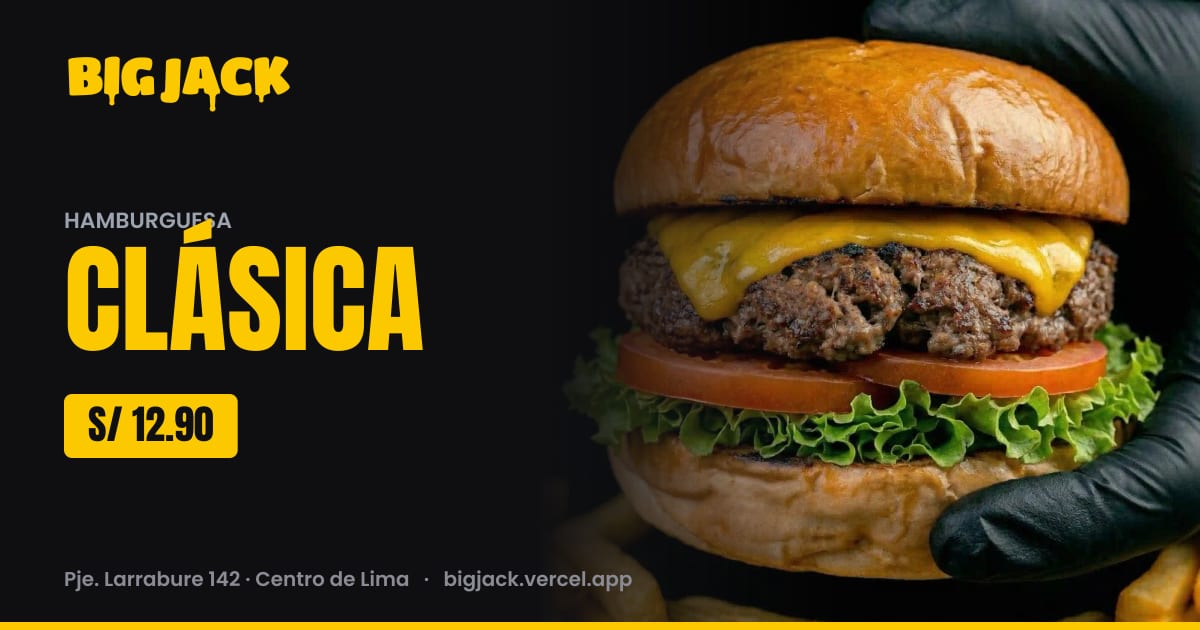
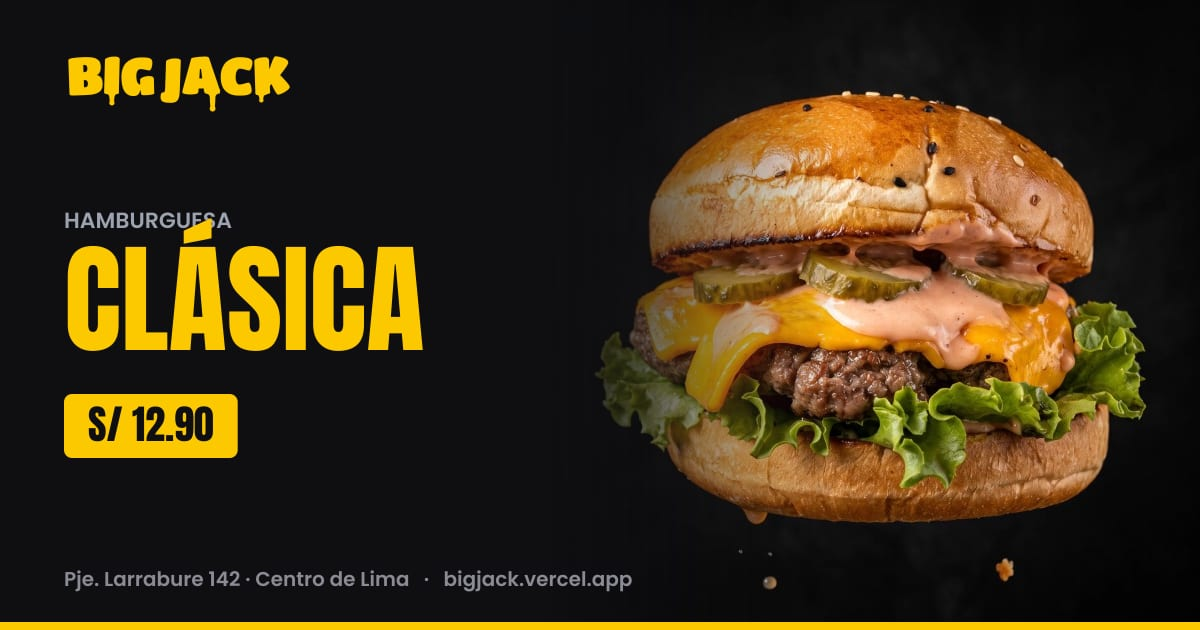
refactor: update photography guide and asset library with hard flash style and new brand images

diff --git a/docs/marca/GUIA_FOTOGRAFIA_Y_VIDEO.md b/docs/marca/GUIA_FOTOGRAFIA_Y_VIDEO.md
@@ -1,132 +1,119 @@
 # Guía de Fotografía y Video — BIG JACK
 
-**Versión:** 1.0 · **Fecha:** 2026-10-24 · Parte del [Manual de Marca](./MANUAL_DE_MARCA.md).
-**Referencia visual:** tablero de Pinterest "BIG JACK – REF Fotografía" (32 pines).
+**Versión:** 2.0 · **Fecha:** 2026-11-01 · Parte del [Manual de Marca](./MANUAL_DE_MARCA.md).
+**Referencia visual:** Tablero de Pinterest "BIG JACK – REF Fotografía" + Nuevas referencias de estilo *Snapshot / Hard Flash* y Bodegones Aéreos.
 
-> **En una línea:** flash directo, de noche, comida que chorrea y gente que muerde sin pose. Lo rico está sucio.
+> **En una línea:** Flash duro directo a la cara del protagonista, fondo devorado por la oscuridad, ángulos sin miedo, planos macros invasivos y comida real que chorrea grasa. Lo rico está sucio.
 
 ---
 
-## 1. Lo que dice el tablero de referencia
+## 1. ADN Visual en formato Prompt (Definición del Estilo)
 
-Lo que se repite en los 32 pines, y por lo tanto es nuestro look:
+Esta descripción funciona tanto como **manifiesto estético** para el fotógrafo en locación, como **prompt base** para retoque, limpieza de fondos y generación de activos con IA.
 
-| Se repite | Qué tomamos |
+### 1.1 Prompt Maestro: Estilo Espontáneo / Calle / Cocina (Look Noche)
+> **En Español:** Fotografía gastronómica callejera de estilo instantáneo (*snapshot* / *paparazzi*), cruda y espontánea. Iluminación de flash duro y directo montado en cámara que impacta de lleno en el protagonista, creando brillos especulares intensos en la grasa de la carne, el queso derretido, las salsas y el sudor del pan tostado. Sombras negras, duras y muy marcadas justo detrás del sujeto. El fondo se oscurece casi por completo debido a la caída brusca de la luz del flash. Toma capturada con diafragma cerrado entre $f/8$ y $f/12$ para lograr una nitidez extrema y rabiosa en cada textura (poros del pan, costra *smash* de la carne, partículas de humo y gotas de grasa suspendidas en el aire sobre la plancha), con un ISO entre $400$ y $1200$ que aporta un grano orgánico y nocturno. Composición atrevida sin miedo a planos extraños: contrapicados agresivos, picados extremos con lente gran angular que distorsionan ligeramente la perspectiva, o planos macro invasivos donde ni siquiera se ve la hamburguesa completa, sino el choque viscoso de los ingredientes. Cero estilismo artificial: envolturas de aluminio arrugadas, dedos manchados, mordidas reales y actitud cruda.
+
+> **En Inglés (para motores de IA):** *Raw snapshot food photography, candid street style, harsh direct on-camera flash lighting hitting the main subject directly. Intense specular highlights on glistening beef grease, melted American cheese, creamy house sauce, and toasted brioche bun. Deep, hard-edged pitch-black shadows, dramatic light fall-off making the background very dark and moody. Shot at $f/8$ to $f/12$ for tack-sharp deep depth of field, ISO $800$ gritty film texture. Unapologetic weird angles, wide-angle lens distortion close to the subject, or extreme invasive macro close-ups of dripping sauces and seared meat crust. Unstyled, authentic, messy, airborne grease particles and smoke in the kitchen, crumpled foil wrapper, instant camera aesthetic.*
+
+### 1.2 Prompt Maestro: Bodegón Aéreo $1:1$ y Tabla (Look Producto / Carta)
+> **En Español:** Fotografía de producto gastronómico de alto impacto en formato cuadrado ($1:1$), perspectiva frontal-isométrica a la altura de los ojos de la hamburguesa. La hamburguesa flota en el aire sobre un fondo negro puro absoluto (logrado por recorte de luz), dando la sensación real de ingravidez con migas de pan tostado y gotas de grasa o salsa cayendo en el aire. Iluminación de flash duro direccional (sin luz difusa suave) que resalta el volumen tridimensional, el dorado y el tostado del corte del pan, la rugosidad jugosa de la carne *smash*, el queso amarillo bien fundido abrazando la carne y la salsa desparramándose con un toque sucio pero apetecible. Si es en tabla de madera con papas fritas, se mantiene la madera real sin adornos falsos encima (solo la papa frita pura y dorada), proyectando sombras duras y contrastadas sobre la tabla con el fondo cayendo a negro total.
+
+> **En Inglés (para motores de IA):** *High-impact commercial burger photography, $1:1$ square format, eye-level isometric frontal perspective. The burger is levitating in mid-air against a pure pitch-black background, dynamic floating toasted crumbs and falling sauce droplets frozen in motion. Lit by a harsh, direct flash—no soft diffused light—creating high contrast, sharp shadows, and mouth-watering specular highlights on the juicy seared beef patties, melted cheddar cheese, glossy house sauce, crispy bacon, and toasted sesame brioche bun. Organized yet messy and greasy ("dirty delicious" aesthetic). Ultra-detailed macro textures, shot at $f/11$, dark moody studio aesthetic.*
+
+---
+
+## 2. Lo que dicen las referencias visuales
+
+A partir del tablero base y las nuevas referencias incorporadas, estas son las reglas visuales innegociables de **BIG JACK**:
+
+| Elemento Visual | Cómo lo aplicamos en BIG JACK |
 | :--- | :--- |
-| **Flash directo** de cámara, sombra dura detrás, fondo que cae a negro | Es el look principal de la marca. |
-| **Gente mordiendo de verdad**: boca abierta, ojos cerrados, cachetes llenos, dedos manchados | La mordida es la foto, no la burger sola. |
-| **Cerca y de frente**: la burger casi pegada al lente, a veces con gran angular u ojo de pez | Producto grande, distorsión permitida. |
-| **Noche y calle**: auto con la maletera abierta, vereda, local con fluorescentes | El Centro de noche es nuestro set. |
-| **Papel**: burger envuelta, papel transparente de grasa, bandejitas | Nuestro aluminio y kraft cumplen ese rol. |
-| **Personajes con actitud**: el señor mayor que manda a rodar la cámara, la chica con lentes de sol de noche, el pata hablando por teléfono con la burger en la mano | Así se ve el universo peruano en foto: actitud, no pose. |
-| **Producto solo sobre superficie oscura** con humo o plancha | Para la carta y piezas de producto. |
-
-Lo que **no** tomamos del tablero: las fotos de estudio con fondo infinito y los locales "de diseño" (mesas verdes, cocinas de revista). Nuestro fondo es el pasaje.
+| **Flash directo sin piedad** | La luz pega de frente. El protagonista brilla y el fondo se apaga (ley inversa del cuadrado). Las sombras detrás de las personas o sobre la tabla son negras y recortadas. |
+| **Planos extraños y distorsión** | No buscamos el ángulo "correcto" de restaurante fino. Usamos picados extremos desde arriba con gran angular (el cliente mirando la burger de reojo), planos inclinados (*Dutch angle*) en las bandejas, y acercamientos agresivos. |
+| **Macros extremos e invasivos** | Fotos donde el encuadre se cierra tanto que solo vemos el borde del pan, la salsa chorreando con sus especias y la costra brillante de la carne. |
+| **La grasa y el humo como textura** | En la plancha, el flash duro rebota contra el humo y las microgotas de grasa que saltan en el aire, creando una atmósfera densa, real y callejera (con guantes negros de nitrilo siempre presentes). |
+| **Gente comiendo sin pose** | Ojos cerrados al morder mientras cae una gota de grasa de la muñeca, cabeza tirada hacia atrás comiendo una papa frita con la burger en la otra mano, o dos pares de manos mostrando las burgers mordidas envueltas en papel/aluminio. |
+| **Bodegón limpio pero "sucio"** | Cuando mostramos el producto solo (en el aire o en tabla de madera), los ingredientes se entienden a la perfección, pero mantienen la rebeldía: queso muy derretido, salsa que mancha el borde del pan y papas fritas solas, **sin perejil ni adornos encima**. |
 
 ---
 
-## 2. Los dos looks
+## 3. Los tres looks de la marca
 
-| Look | Para qué | Cómo se ve |
+| Look | Para qué sirve | Cómo se construye |
 | :--- | :--- | :--- |
-| **Noche (flash)** | Feed, reels, universo peruano, la caleta. **Es el principal.** | Flash directo, fondo oscuro, gente, calle, mordidas. |
-| **Recorte (producto)** | Plantillas de color plano del [Modo Amarillo](./IDENTIDAD_VISUAL.md), carta, web, delivery. | Burger sola, bien iluminada, fondo liso para recortar sin perder el queso que cae. |
-
-En cada sesión se sacan los dos: las fotos de recorte alimentan las plantillas durante meses.
-
----
-
-## 3. Técnica
-
-### 3.1 Flash directo (look Noche)
-
-| Ajuste | Valor de partida |
-| :--- | :--- |
-| Flash | Montado en la cámara, de frente, sin difusor o con difusor mínimo. Potencia 1/8–1/4 a 1–2 m. |
-| Velocidad | 1/125–1/200 s para congelar. **1/15–1/30 s** para arrastrar la luz de la calle (estelas y fondo con luz de poste). |
-| Diafragma | f/5.6–f/8 (todo nítido, look de compacta). |
-| ISO | 400–800 de noche, para que la calle no quede en negro total. |
-| Lente | 24–35 mm para gente y calle; macro o 50 mm para detalle; ojo de pez solo para piezas puntuales. |
-| Celular | Vale. Flash del celular encendido, modo nocturno **apagado** (suaviza demasiado). |
-| Encuadre | Vertical primero (4:5 y 9:16). Dejar aire arriba y abajo para texto. |
-
-### 3.2 Recorte (look producto)
-
-| Ajuste | Valor de partida |
-| :--- | :--- |
-| Fondo | Cartulina lisa negra y otra amarilla (o gris medio). Separar la burger 50 cm del fondo. |
-| Luz | Una luz principal dura a 45° + un rebote. Sombra marcada, no difusa. |
-| Ángulos | Frontal a la altura de la burger (el "edificio"), 3/4 desde arriba, cenital del aluminio abierto. |
-| Movimiento | El queso cayendo, la mordida recién dada, la mano entrando desde un borde (para plantilla T2). |
-| Repetir | El mismo ángulo con y sin mano, con y sin mordida. |
-
-### 3.3 Higiene en cámara
-
-Guantes en toda la preparación. Superficies limpias. La cochinada es del cliente comiendo, no del cocinero cocinando.
+| **1. Noche / Snapshot (Principal)** | Feed, Reels, TikTok, universo peruano, cocina y calle. | Espontáneo, ángulos raros, gente mordiendo, humo de plancha, manos con aluminio, fondo oscuro o calle nocturna subexpuesta. |
+| **2. Bodegón Aéreo ($1:1$)** | Carta digital, web, apps de delivery, piezas héroe de producto. | Hamburguesa flotando en el aire sobre fondo negro puro. Perspectiva frontal/isométrica impecable, migas y gotas cayendo, iluminada con flash duro para que brille la jugosidad. |
+| **3. Bodegón en Tabla / Bandeja** | Combos con papas, promociones en redes, carruseles de menú. | Perspectiva $3/4$ sobre nuestra tabla de madera o bandeja metálica. Fondo oscurecido por completo, sombra dura proyectada en la base, papas puras sin agregados falsos. |
 
 ---
 
-## 4. Edición (preset de partida)
+## 4. Técnica Fotográfica (Parámetros de Cámara)
 
-Valores para Lightroom o similar sobre foto con flash. Ajustar por foto; lo importante es que **todas se vean de la misma familia**.
+El secreto de nuestro estilo está en **subexponer el ambiente** y dejar que el **flash duro** sea quien pinte los detalles con máxima nitidez.
 
-| Parámetro | Valor |
-| :--- | :--- |
-| Contraste | +25 |
-| Altas luces | −20 |
-| Sombras | −10 |
-| Blancos | +15 |
-| Negros | −20 |
-| Textura / Claridad | +10 / +8 |
-| Vibración / Saturación | +5 / 0 |
-| HSL Amarillo | Saturación +10 |
-| HSL Naranja | Luminancia +5 (pan dorado, piel) |
-| HSL Rojo | Saturación +5 (tomate, cuernos) |
-| Temperatura | Levemente cálida (+300 K aprox.) |
-| Grano | Cantidad 20, tamaño 25, rugosidad 50 |
-| Viñeta | −10 |
+### 4.1 Configuración Base (Cámara Profesional)
 
-**No se hace:** suavizado de piel, quitar migas o grasa, agrandar la burger, cambiar el color del queso.
-
-Guardar el preset como `BIGJACK_NOCHE_v1` y compartirlo con todo el equipo.
-
----
-
-## 5. Real, IA y lo que nunca
-
-| Qué | Cómo se produce | Regla |
+| Parámetro | Rango Obligatorio | Por qué se usa así |
 | :--- | :--- | :--- |
-| **Hamburguesas, ingredientes, porciones** | **Foto real** siempre. | Nunca IA, nunca banco de imágenes. Es lo que vendemos. |
-| **Primeros planos** (mordida, manos, papel) | Foto real. | Se puede limpiar el fondo, no el producto. |
-| **Escenas del universo peruano** (personaje + situación) | Foto real de la burger y/o de un actor + **IA para la escena**, el fondo o el personaje. | La burger que aparece sigue siendo una foto real compuesta en la escena. |
-| **Fondos, cielo, calle, collage** | IA o foto. | Libre. |
-| **Personas reales identificables** (políticos, famosos) | Ilustración, caricatura, actor en parodia evidente. | **Nunca** IA fotorrealista que parezca una foto real de esa persona. Ver [UNIVERSO_PERUANO.md](./UNIVERSO_PERUANO.md). |
-| **Vecinos y gente de la zona** | Foto real con autorización firmada. | Sin autorización, fuera de foco o de espaldas. |
+| **Diafragma** | **$f/8$ a $f/12$** | Queremos profundidad de campo amplia y rabiosamente nítida. Que desde la punta del pan hasta el fondo de la bandeja (o cada poro en un plano macro) se vea cortante. Además, cerrar el diafragma ayuda a matar la luz fea del ambiente y oscurecer el fondo. |
+| **ISO** | **$400$ a $1200$** | Nos da sensibilidad para que el flash recicle rápido y aporta una textura ligeramente granulada y cruda en las zonas medias y sombras, evitando el look "plástico" de estudio tradicional. |
+| **Velocidad de Obturación** | **$1/160\text{ s}$ a $1/250\text{ s}$** (congelado)<br>**$1/15\text{ s}$ a $1/30\text{ s}$** (arrastre) | Velocidad alta de sincronización para oscurecer el fondo y congelar gotas de grasa o partículas en la plancha. Velocidad lenta solo en calle cuando queremos estelas de luces de autos o postes detrás del sujeto. |
+| **Iluminación (Flash)** | **Flash duro directo** (en zapata o en mano con cable/radio) | **Prohibido usar *softbox* grandes o difusores suaves.** Queremos el destello desnudo (o con reflector metálico estándar). La luz debe crear reflejos especulares en la humedad de la salsa y la grasa, dejando sombras definidas. |
+| **Óptica (Lentes)** | **$16\text{–}28\text{ mm}$** (Calle/Gente)<br>**$50\text{–}90\text{ mm Macro}$** (Producto/Detalle) | El gran angular pegado al sujeto exagera las proporciones (la burger o la cara en primer plano se ven gigantes y con mucha actitud). El lente macro se usa para los planos cerrados de texturas y los bodegones $1:1$. |
 
-Las plataformas pueden etiquetar como "hecho con IA" una imagen editada. No es problema; lo que no se hace es presentar como real algo que no pasó con una persona real.
+### 4.2 Cómo lograr el fondo negro sin estudio (Caída de luz)
+1. Pon la cámara en **ISO $400$**, diafragma **$f/11$** y velocidad **$1/200\text{ s}$**. Si disparas sin flash en el local o de noche, la foto debe salir casi completamente negra.
+2. Enciende el flash duro apuntando directamente a la hamburguesa o al plato (a unos $40\text{–}80\text{ cm}$ de distancia).
+3. Separa al sujeto del fondo al menos $1.5\text{ metros}$. El flash iluminará con fuerza la comida y sus detalles, pero no llegará al fondo, dejándolo negro o en penumbra profunda de manera natural.
 
-### 5.1 Placas para IA
-
-Para que una burger real se vea bien dentro de una escena hecha con IA, en cada sesión se sacan **placas**:
-
-- La burger sola sobre fondo liso, con **el mismo flash** que se usará en la escena (frontal, duro).
-- Tres ángulos: frontal, 3/4, ligeramente desde abajo.
-- **La mano sosteniendo la burger** en 3–4 posiciones (como si comiera, como si la mostrara, de lado, cerca de la boca), con manga negra y con manga de color.
-- La burger mordida y sin morder.
-- Un aluminio abierto y una bolsa kraft cerrada con el sello.
-
-Con eso se arma cualquier escena: la casera hablando por teléfono, el cobrador colgado de la combi, el político en el congreso de mentira.
+### 4.3 Higiene en cámara vs. "Suciedad" apetecible
+* **En cocina:** Guantes negros de nitrilo impecables siempre que una mano toque o aplaste en la plancha. La grasa que salta en el aire frente al flash y los jugos sobre el acero son parte del espectáculo.
+* **En el plato / manos del cliente:** Aquí vive "la cochinada" rica. Dedos manchados de salsa de la casa, queso fundido pegado al papel aluminio, migas sobre la tabla y jugos goteando.
 
 ---
 
-## 6. Seguridad y permisos en la zona
+## 5. Edición y Revelado (Preset `BIGJACK_HARDFLASH_v2`)
+
+Ajustes de partida en Lightroom / Capture One para acentuar el dramatismo del flash duro, hundir el fondo y hacer brillar la grasa sin que el pan pierda su color dorado apetecible.
+
+| Parámetro | Valor sugerido | Objetivo visual |
+| :--- | :--- | :--- |
+| **Exposición** | $-0.30$ a $0.00$ | Mantener la atmósfera oscura; solo brilla lo que toca el flash. |
+| **Contraste** | $+30$ | Separación agresiva entre el golpe de luz y la sombra. |
+| **Altas luces (Highlights)** | $-15$ | Controlar el quemado en el centro del pan sin matar el brillo especular de la grasa. |
+| **Sombras (Shadows)** | $-25$ | Hundir el fondo y dar peso a las sombras proyectadas. |
+| **Blancos (Whites)** | $+20$ | Hacer que los puntos de luz en la salsa, dientes, ojos y grasa estallen. |
+| **Negros (Blacks)** | $-30$ | Asegurar negros profundos y sólidos en el fondo. |
+| **Textura / Claridad** | $+15$ / $+10$ | Resaltar la costra de la carne, las semillas del pan y las gotas de humedad. |
+| **Borrar neblina (Dehaze)** | $+5$ (o $-5$ en fotos de humo) | $+5$ para recortes limpios; $-5$ en plancha si queremos que el humo brille más con el flash. |
+| **HSL — Amarillo / Naranja** | Sat $+10$ / Lum $+5$ | Queso cheddar vibrante y pan dorado tostado. |
+| **HSL — Rojo** | Sat $+8$ / Lum $-5$ | Carnes jugosas, tocino intenso y salsas con cuerpo. |
+| **Temperatura** | $+300\text{ K}$ a $+500\text{ K}$ | Contrarrestar el tono azulado del flash puro para que la comida se vea cálida y calórica. |
+| **Grano** | Cantidad $20$, Tamaño $30$, Rugosidad $60$ | Textura de película forzada a ISO $800\text{–}1200$. |
+
+---
+
+## 6. Real, IA y Flujo de Postproducción
+
+| Qué | Cómo se produce | Regla de Oro |
+| :--- | :--- | :--- |
+| **Base del producto (Hamburguesas y Papas)** | **Foto real siempre.** | Jamás se inventa una hamburguesa desde cero sin base real. |
+| **Bodegón Aéreo $1:1$ y Limpieza de Tabla** | **Foto real + Retoque / IA generativa controlada.** | Tomamos nuestra foto real (en mano o en tabla) y usamos IA/Edición para: eliminar la mano con guante, suspender la burger en el aire sobre negro puro, corregir asimetrías leves del pan, acentuar el tostado del corte, derretir un punto más el queso y unificar la luz a estilo *flash duro*. |
+| **Fidelidad de ingredientes** | **Estricta.** | Si es la Clásica, lleva carne, queso amarillo, salsa de la casa, lechuga recogida y pepinillos en rodajas. Si lleva papas, son nuestras papas solas (prohibido que la IA agregue hierbas, perejil o salsas que no vendemos). |
+| **Escenas del universo peruano** | **Foto real (Placas) + IA para entorno.** | La burger que sostiene el personaje siempre parte de nuestras placas reales fotografiadas con flash duro. |
+| **Personas reales identificables** | **Ilustración o parodia evidente.** | Nunca *deepfake* o IA fotorrealista de políticos o famosos. Ver [UNIVERSO_PERUANO.md](./UNIVERSO_PERUANO.md). |
+
+---
+
+## 7. Seguridad y permisos en la zona
 
 El local está en un pasaje con vida nocturna de zona rosada. Para sesiones:
 
 1. **Mínimo dos personas** del equipo en las tomas de calle; una solo cuida el equipo.
-2. **Nadie de la zona sale en foto sin aceptarlo.** Si alguien identificable aparece de fondo, se desenfoca o se descarta. A quien quiera salir, se le pide autorización escrita (modelo abajo).
+2. **Nadie de la zona sale en foto sin aceptarlo.** Si alguien identificable aparece de fondo, se desenfoca o se descarta (con $f/8$ a $f/12$ el fondo sale más enfocado si llega la luz, así que cuidar hacia dónde apunta el flash). A quien quiera salir, se le pide autorización escrita.
 3. Las trabajadoras y sus clientes **no son locación**. Si una vecina quiere salir comiendo una BIG JACK y firma, sale como cualquier vecina.
-4. Avisar a los vecinos del pasaje antes de prender el flash en su puerta.
+4. Avisar a los vecinos del pasaje antes de disparar el flash directo en su puerta.
 5. Celulares y cámaras guardados entre tomas; no dejar mochilas en el piso.
 
 **Autorización de imagen (modelo corto):**
@@ -138,109 +125,66 @@ Puedo pedir que se retiren de redes escribiendo al WhatsApp del local.
 Firma: ______________
 ```
 
-Se guarda una foto de la autorización firmada en la carpeta de la sesión. Sin menores de edad.
+---
+
+## 8. Shot List de Sesión Actualizada
+
+Prioridad: ⭐ Indispensable · ○ Si hay tiempo. Todos los tiros se hacen con **flash duro directo** y diafragma entre **$f/8$ y $f/12$**.
+
+### 8.1 Producto Héroe y Combos (Look Aéreo $1:1$ y Tabla)
+*Aplicar a cada hamburguesa de `menuItems` (**La Misia, La Real con Huevo, La Pobre pero Fina, La Bacon** y versiones dobles).*
+
+| # | Toma | Especificación Técnica y Visual | Prioridad |
+| :-: | :--- | :--- | :-: |
+| **P1** | **Base para Flotante $1:1$** | Perspectiva frontal-isométrica exacta a la altura del centro de la burger. Sostenida para luego borrar soporte/mano y dejarla flotando en fondo negro con migas y gotas cayendo. | ⭐ |
+| **P2** | **Combo en Tabla de Madera** | Ángulo $3/4$ superior. Burger + porción de papas fritas solas sobre la tabla de madera. Flash duro lateral/frontal creando sombra marcada en la tabla y fondo totalmente negro. | ⭐ |
+| **P3** | **Macro Extremo Invasivo** | Lente macro a pocos centímetros. Encuadre cerrado solo en el centro: corte del pan tostado, salsa de la casa chorreando, queso fundido y costra grasosa de la carne. | ⭐ |
+| **P4** | **Grilla de Bandeja (Ángulos Dinámicos)** | Burger y papas en bandeja con papel de marca/aluminio. Ráfaga de $6\text{ a }9$ fotos variando el ángulo (cenital, inclinado *Dutch angle*, acercamiento a las papas, mano agarrando la bandeja). | ⭐ |
+| **P5** | **Cortada a la mitad / Mordida** | Mostrando el interior jugoso, el doble medallón o el tocino colgando con brillo de grasa. | ○ |
+
+### 8.2 La Cochinada y Actitud (Look Noche / Snapshot)
+
+| # | Toma | Especificación Técnica y Visual | Prioridad |
+| :-: | :--- | :--- | :-: |
+| **C1** | **El Mordisco con Ojos Cerrados** | Primerísimo plano de persona dando un mordisco real, ojos cerrados de placer, dedos apretando el pan y una gota de grasa/salsa a punto de caer de la mano. | ⭐ |
+| **C2** | **Picado Extremo Gran Angular** | Lente $16\text{–}24\text{ mm}$ desde arriba, muy cerca de la cabeza del personaje mientras mira a cámara o sostiene la burger mordida. Perspectiva exagerada y callejera. | ⭐ |
+| **C3** | **Doble Mano en Aluminio (POV)** | Toma desde arriba mostrando las manos de dos personas sosteniendo sus burgers abiertas en el papel aluminio/envoltorio manchado de queso, piernas y piso oscuro de fondo. | ⭐ |
+| **C4** | **Actitud con Papas y Burger** | Personaje recostado o tirando la cabeza hacia atrás comiendo una papa frita mientras sostiene la hamburguesa en la otra mano. Sombra dura recortada contra la pared detrás. | ⭐ |
+| **C5** | **Yema y Salsas Desbordadas** | Primer plano de la yema reventando sobre la carne o dedos manchados limpiándose con servilleta. | ○ |
+
+### 8.3 Plancha, Humo y Grasa (Cocina en Acción)
+
+| # | Toma | Especificación Técnica y Visual | Prioridad |
+| :-: | :--- | :--- | :-: |
+| **K1** | **Smash con Lluvia de Grasa** | Mano con guante negro aplastando la bola de carne con cebolla en la plancha. El flash duro a $f/11$ congela el humo blanco y hace brillar todas las microgotas de grasa suspendidas en el aire. | ⭐ |
+| **K2** | **Queso Fundiéndose en Plancha** | Momento exacto en que se coloca el cheddar sobre el medallón recién volteado con costra oscura y burbujeante. | ⭐ |
+| **K3** | **Armado en Serie (Contraluz/Lateral)** | Panes tostándose al fondo en la plancha mientras en primer plano se monta el tocino y la salsa de la casa. | ⭐ |
+| **K4** | **Envoltura en Aluminio** | Manos enguantadas cerrando el aluminio y pegando el sticker "SELLADO". | ○ |
+
+### 8.4 La Caleta y Placas para IA
+* **Calle (L1–L6):** Fachada nocturna, entrega por ventanilla con golpe de flash, y tomas con obturación lenta ($1/15\text{ s}$) combinando el destello congelado de la burger en primer plano con las luces barridas del pasaje al fondo.
+* **Placas IA:** Fotografiar cada burger y manos sosteniéndola en $3\text{–}4$ ángulos con flash duro frontal sobre fondo oscuro liso, listas para integrar en composiciones del universo peruano.
 
 ---
 
-## 7. Shot list de sesión
+## 9. Video (Reels / TikTok — 9:16)
 
-Lista base para cada sesión de actualización (la próxima: **25-oct-2026**). Prioridad: ⭐ indispensable · ○ si hay tiempo.
-
-### 7.1 Producto (look Recorte) — por cada hamburguesa de `menuItems`
-
-| # | Toma | Prioridad |
-| :-: | :--- | :-: |
-| P1 | Frontal a la altura de la burger, fondo negro | ⭐ |
-| P2 | Frontal, fondo amarillo o gris (para recortar) | ⭐ |
-| P3 | Queso cayendo (varias, ráfaga) | ⭐ |
-| P4 | Cortada por la mitad, mostrando capas | ⭐ |
-| P5 | Mano entrando desde el borde con la burger (para plantilla T2) | ⭐ |
-| P6 | Cenital del aluminio abierto con la burger | ○ |
-| P7 | Recién mordida | ○ |
-
-Productos: **La Misia, La Real con Huevo, La Pobre pero Fina, La Bacon** (y la opción doble si existe), con los nombres exactos de `menuItems`.
-
-### 7.2 La cochinada (look Noche)
-
-| # | Toma | Prioridad |
-| :-: | :--- | :-: |
-| C1 | Mordida grande de frente, boca abierta, flash directo | ⭐ |
-| C2 | Dedos manchados de queso/salsa, primer plano | ⭐ |
-| C3 | Papel aluminio transparente de grasa, servilleta usada | ⭐ |
-| C4 | Yema reventando (La Real con Huevo, La Pobre pero Fina) | ⭐ |
-| C5 | Dos manos, comiendo encorvado, sin pose | ⭐ |
-| C6 | Persona con la boca llena mirando a cámara | ○ |
-| C7 | Migas y salsa en la mesa con la burger a medio comer | ○ |
-
-### 7.3 Plancha y cocina
-
-| # | Toma | Prioridad |
-| :-: | :--- | :-: |
-| K1 | Medallón cayendo a la plancha, humo (foto + video) | ⭐ |
-| K2 | Espátula aplastando, chispa de grasa | ⭐ |
-| K3 | Queso derritiéndose sobre la carne en plancha | ⭐ |
-| K4 | Manos con guantes armando la burger | ⭐ |
-| K5 | Envolviendo en aluminio + sticker "SELLADO" | ⭐ |
-| K6 | Bolsa kraft con el sello, cerrada | ○ |
-
-### 7.4 La caleta (calle y local)
-
-| # | Toma | Prioridad |
-| :-: | :--- | :-: |
-| L1 | Fachada de noche con la luz del local encendida | ⭐ |
-| L2 | El pasaje en plano general (sin gente identificable) | ⭐ |
-| L3 | Entrega en mano por la ventanilla o la puerta | ⭐ |
-| L4 | Motorizado recogiendo el pedido, de espaldas o con autorización | ○ |
-| L5 | Detalles del Centro cerca: balcón, cables, letreros, reja | ○ |
-| L6 | Luz de poste + burger en primer plano (velocidad lenta) | ○ |
-
-### 7.5 Placas para IA
-
-Ver [§5.1](#51-placas-para-ia). **⭐ todas.**
-
-### 7.6 Video (9:16, vertical)
-
-| # | Clip (3–8 s cada uno) | Prioridad |
-| :-: | :--- | :-: |
-| V1 | Queso cayendo en cámara lenta | ⭐ |
-| V2 | Medallón a la plancha con el sonido real | ⭐ |
-| V3 | Mordida de frente, sonido del pan | ⭐ |
-| V4 | Abrir el aluminio (sonido del papel) | ⭐ |
-| V5 | Envolver y sellar, rápido | ○ |
-| V6 | El pasaje de noche, cámara en mano, sonido ambiente | ○ |
-| V7 | La radio del local sonando + plancha (audio para varios reels) | ○ |
+- **Iluminación en video:** Usar una luz continua LED pequeña y dura montada sobre la cámara o celular (sin difusor) para replicar exactamente el mismo *look* de flash directo y sombras duras que tenemos en fotografía.
+- **Gancho en el primer segundo:** El sonido real del *smash* en la plancha humeante, un plano macro de la salsa chorreando o un mordisco agresivo frente al lente.
+- **Edición rítmica y sucia:** Cortes rápidos al ritmo de la acción, zooms bruscos a los detalles de la grasa y subtítulos siempre en zona segura (ver [IDENTIDAD_VISUAL.md](./IDENTIDAD_VISUAL.md)).
+- **Duración:** $7\text{ a }20\text{ segundos}$, directo al grano. Cierre con sello o logo con cuernos.
 
 ---
 
-## 8. Video (Reels / TikTok)
+## 10. Entrega, Archivo y Lo que NO se hace
 
-- **Gancho en el primer segundo:** queso, mordida o una frase del tío en pantalla.
-- **Sonido real:** espátula, plancha, papel, calle. Es parte de la marca.
-- **Subtítulos siempre**, en zona segura (ver [IDENTIDAD_VISUAL.md](./IDENTIDAD_VISUAL.md)).
-- **7–20 segundos**, una sola idea.
-- **Cierre:** logo con cuernos o sello + frase corta. Sin "¡Síguenos para más!".
-- **Voz en off del tío:** permitida (es voz, no cara). Una voz masculina de 40-50 años, limeña, con humor. 🔒 Definir quién la graba o si es sintética.
-- **Música:** en orgánico, audios de la biblioteca de la plataforma; en pauta, solo música libre o original.
+### 10.1 Nomenclatura y Carpetas
+- **Carpeta por sesión:** `AAAA-MM-DD_sesion-[tema]/` con subcarpetas `RAW/`, `EDITADAS_FLASH/`, `FLOTANTES_1x1/`, `PLACAS_IA/`, `VIDEO/`, `AUTORIZACIONES/`.
+- **Nombre de archivo:** `AAAAMMDD_[producto o tema]_[toma]_[nro].jpg` (ej. `20261101_bacon-doble_P1-flotante_01.jpg`).
+- **Exportación:** JPG a $2160\text{ px}$ (lado largo) para redes; cuadrados $1:1$ en $2048 \times 2048\text{ px}$ para carta/delivery; PNG transparente para recortes.
 
----
-
-## 9. Entrega y archivo
-
-**Carpeta por sesión:** `AAAA-MM-DD_sesion-[tema]/` con subcarpetas `RAW/`, `EDITADAS/`, `RECORTES/`, `PLACAS_IA/`, `VIDEO/`, `AUTORIZACIONES/`.
-
-**Nombre de archivo:** `AAAAMMDD_[producto o tema]_[toma]_[nro].jpg` → `20261025_pobre-pero-fina_P3_04.jpg`
-
-**Selección:** marcar con estrellas las mejores 3 por toma. Exportar JPG 2160 px lado largo para redes y PNG sin fondo para recortes.
-
-**Dónde vive:** almacenamiento compartido del equipo (🔒 definir cuál, junto con [B12](./MANUAL_DE_MARCA.md#12-decisiones-pendientes)). El repo de la web solo guarda las fotos que usa la web, optimizadas.
-
----
-
-## 10. Lo que no se hace
-
-- Retocar el producto (tamaño, ingredientes, porción).
-- Fotos de banco o IA **del producto**.
-- Cocina sucia, insectos, comida en el piso, manipulación sin guantes.
-- Fotografiar a gente identificable sin autorización; a menores, nunca.
-- *Food porn* de plástico: glaseado falso, fondo blanco infinito, burger perfecta.
-- Usar imágenes del tablero de Pinterest en publicaciones: son referencia, no material.
+### 10.2 Lo que está prohibido en BIG JACK
+- **Luz suave y plana:** Nada de fotos iluminadas con ventana suave de día o *softbox* gigantes que aplanen las texturas y borren el brillo de la grasa.
+- **Adornos falsos ("webadas" encima):** Prohibido ponerle perejil picado, romero, ajonjolí extra falso o salsas decorativas a las papas fritas o a la tabla.
+- **Perspectivas deformes en el Bodegón $1:1$:** En las fotos flotantes de catálogo, la hamburguesa no puede verse caída de un lado ni tomada desde muy arriba; debe tener presencia frontal/isométrica sólida en el aire.
+- **Food porn de plástico:** Nada de pan liso sin poros, ni lechugas desparramadas sin control que tapen la carne. La lechuga va recogida, el pan muestra su tostado real en el corte y la carne muestra su costra y su jugo.
